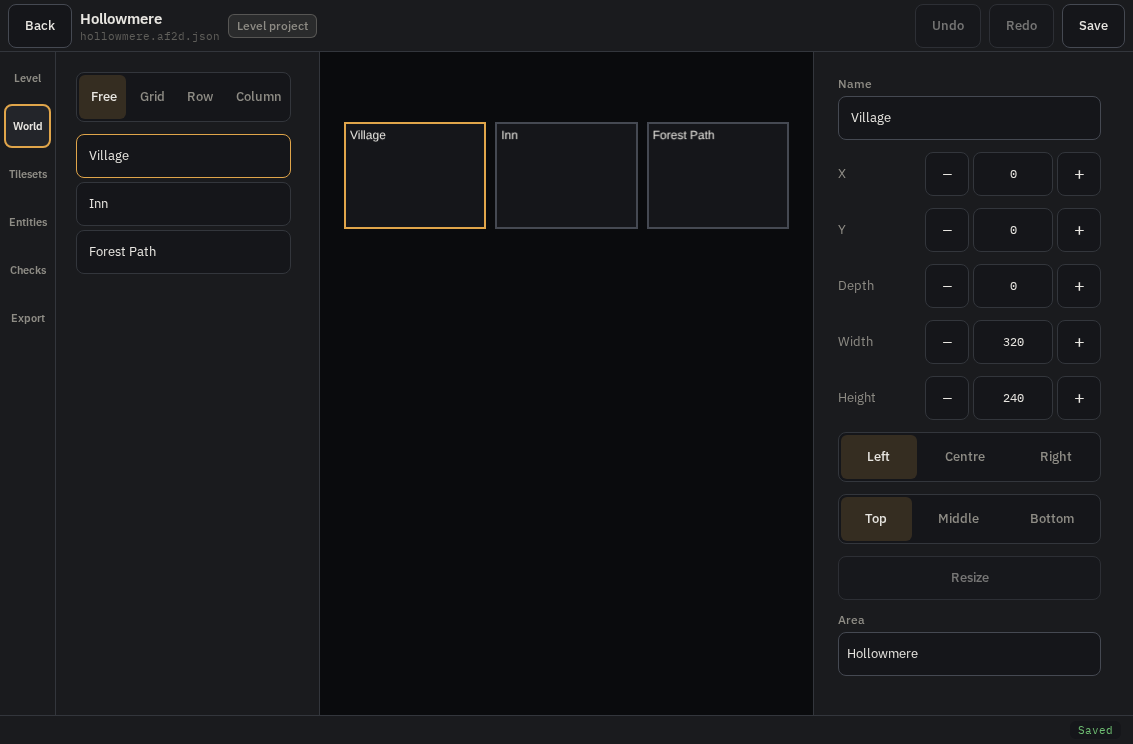
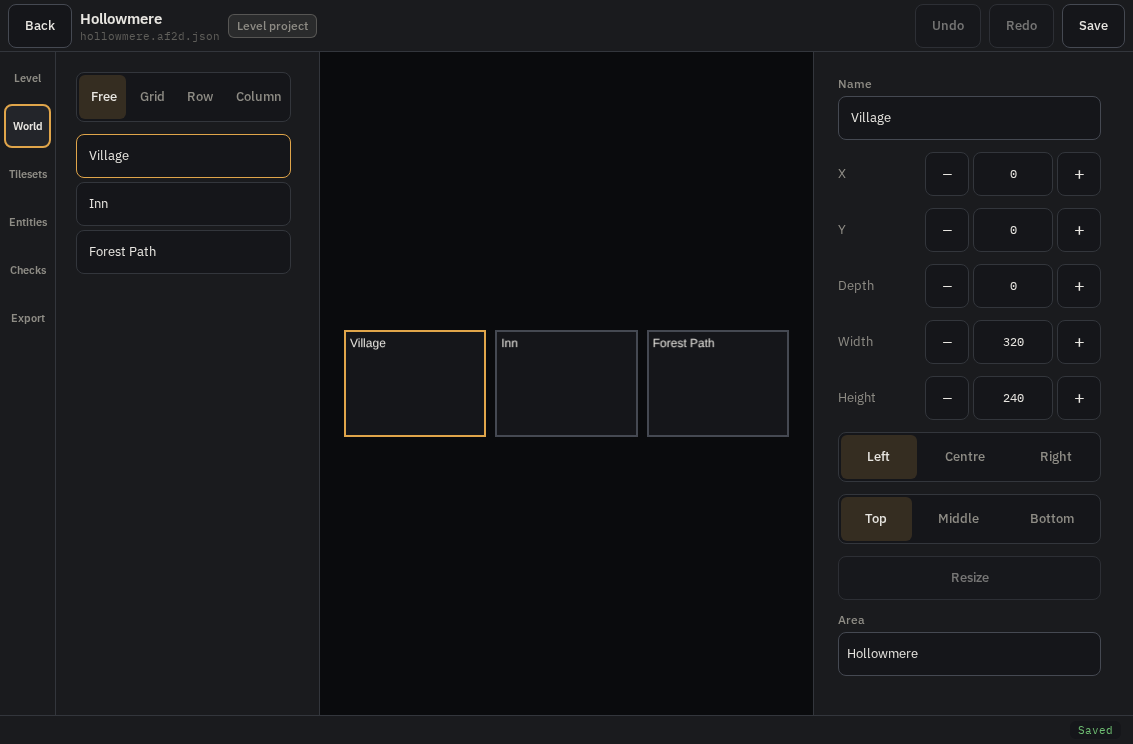
fix(editor-2d): ED2D.6b the map fills the canvas in wide layouts; images open at the top beside the mockup
Claude-Session: https://claude.ai/code/session_01QYLU1hYWzEP1kq4dCQTvo3

diff --git a/packages/editor-2d/src/app/world/world-view.layout.test.ts b/packages/editor-2d/src/app/world/world-view.layout.test.ts
@@ -126,9 +126,16 @@ describe.each(SIZES)('World view at $name ($width x $height)', (size) => {
     const drawers =
       size.mode === 'wide' ? [] : ['Levels', 'Inspector'].map((name) => buttonNamed(view(), name))
     expect(checkLayout(conditions, [...tabs, ...drawers])).toEqual([])
-    const map = byTestId('world-map').getBoundingClientRect()
+    // The map fills the canvas below any drawer buttons, and the levels sit in the middle of it: the camera is fitted
+    // to the box the map really has (review of #310: in wide the map took only its content's height).
+    const mapElement = byTestId('world-map')
+    const map = mapElement.getBoundingClientRect()
+    const canvasRegion = region('canvas').getBoundingClientRect()
     expect(map.width).toBeGreaterThan(100)
-    expect(map.height).toBeGreaterThan(80)
+    expect(map.bottom).toBeGreaterThanOrEqual(canvasRegion.bottom - 1)
+    const [top, bottom] = (mapElement.dataset.levelsBox ?? '').split(',').map(Number)
+    expect(top).toBeGreaterThan(0)
+    expect(Math.abs((top ?? 0) - (map.height - (bottom ?? 0)))).toBeLessThanOrEqual(1.5)
 
     await openDrawer(size, 'Levels', 'panel')
     const panel = region('panel')
@@ -143,6 +150,9 @@ describe.each(SIZES)('World view at $name ($width x $height)', (size) => {
     await closeDrawer(size, 'Levels', 'panel')
 
     await openDrawer(size, 'Inspector', 'inspector')
+    // The inspector opens at its top (Name first); the checks below scroll it to reach each control.
+    const inspectorScroll = region('inspector').querySelector<HTMLElement>('[data-scroll-region]')
+    expect(inspectorScroll?.scrollTop ?? 0).toBe(0)
     const inspector = byTestId('world-inspector')
     const name = inspector.querySelector<HTMLElement>('input[type="text"]')
     if (name === null) throw new Error('no name field')
@@ -153,6 +163,9 @@ describe.each(SIZES)('World view at $name ($width x $height)', (size) => {
       await expectTarget(radio, size)
     await expectTarget(buttonNamed(inspector, 'Resize'), size)
     noPageScroll()
+    // The image shows the inspector as it opens, at its top, not where the checks above left it.
+    inspectorScroll?.scrollTo(0, 0)
+    await settleLayout()
     await page.screenshot({ path: `.vitest/shots/world-view-${size.name}.png` })
   })
 })

diff --git a/packages/editor-2d/src/app/world/WorldView.svelte b/packages/editor-2d/src/app/world/WorldView.svelte
@@ -58,6 +58,12 @@ const rects = $derived(
 )
 const fitted = $derived(fitWorld(rects, box, MARGIN))
 const camera = $derived(held ?? fitted)
+/** Where the levels' top and bottom edges fall on the map, in CSS pixels: the layout checks read it to see them centred. */
+const levelsBox = $derived(
+  rects.length === 0
+    ? undefined
+    : `${camera.y + Math.min(...rects.map((rect) => rect.y)) * camera.scale},${camera.y + Math.max(...rects.map((rect) => rect.y + rect.h)) * camera.scale}`,
+)
 const levels = $derived(
   project === undefined || world === undefined
     ? []
@@ -178,6 +184,7 @@ function layout(next: string): void {
         role="application"
         aria-label="World map"
         data-testid="world-map"
+        data-levels-box={levelsBox}
         bind:this={map}
         onpointerdown={down}
         onpointermove={(event) => drag?.move(pointOf(event))}
@@ -232,9 +239,10 @@ function layout(next: string): void {
     border-color: var(--color-accent-default);
   }
   /* Below wide the drawer buttons sit over the map; the map takes the rest of the canvas. */
+  /* A column, so the map takes all the height the drawer buttons leave, with or without them (wide has none). */
   .stage {
-    display: grid;
-    grid-template-rows: auto minmax(0, 1fr);
+    display: flex;
+    flex-direction: column;
     height: 100%;
   }
   .drawers {
@@ -253,6 +261,7 @@ function layout(next: string): void {
     font: var(--text-body-13-medium);
   }
   .map {
+    flex: 1 1 0;
     min-height: 0;
     touch-action: none;
   }

diff --git a/docs/evidence/owner-visual/2026-10-31-ed2d-6b/README.md b/docs/evidence/owner-visual/2026-10-31-ed2d-6b/README.md
@@ -1,18 +1,33 @@
 # ED2D.6b review images (2026-10-31)
 
 Screenshots from `packages/editor-2d/src/app/world/world-view.layout.test.ts`, the production CSS at the 2D editor's
-sizes (spec §12), taken from a Chromium run (headless Firefox has no WebGL2, so its map says "Preview unavailable";
-the three-browser run passes 24 of 24 either way). The project is the Hollowmere sample, an RPG map set of three
-levels; the test chooses Village, so the inspector shows it. This is a new screen; no golden or committed screenshot
-changed.
+sizes (spec §12), from a Chromium run (headless Firefox has no WebGL2, so its map says "Preview unavailable"; the
+three-browser run passes 24 of 24 either way). The project is the Hollowmere sample, three levels; the test chooses
+Village. This is a new screen; no golden or committed screenshot changed. Each image is taken with the inspector at
+its top, as it opens (the checks scroll it to reach every control first, then scroll it back).
 
 | Image | What it shows |
 | --- | --- |
-| `world-view-ipad-pro-11-landscape.png` | The reference size: the panel with the layout switch (Free, Grid, Row, Column) and the levels; the map with Village outlined in the accent; the inspector with Name, X, Y, Depth, Width, Height, the sides kept on a resize, Resize (disabled until the size changes) and the level's field (Area). |
+| `mockup-world.png` | The design: the `world` frame of the "Automata Editors" Figma file (Figma key `8H4vY5xZj7xIedrvDdwg2d`), rendered at 1:1 from `docs/design/editor-2d` with `node build.mjs screen world` and a Playwright screenshot. It is the only mockup frame for this view (iPad 11" landscape). |
+| `world-view-ipad-pro-11-landscape.png` | The build at the mockup's size: the layout switch and the level list in the panel, the levels centred on the map with Village outlined, and the inspector. |
 | `world-view-ipad-pro-11-portrait.png` | Medium: Levels and Inspector open the drawers over the map; the inspector is open. |
 | `world-view-ipad-mini-landscape.png` | Wide but short. |
-| `world-view-phone-portrait.png` | Compact: the inspector as a bottom sheet over the map. |
+| `world-view-phone-portrait.png` | Compact: the inspector as a bottom sheet, open at Name. |
 | `world-view-phone-landscape.png` | Compact and short. |
 
-Not shown: a drag in progress and the resize confirmation (the DOM tests cover both). Real-device testing stays the
-Owner's (the finger and Pencil drag belongs to ED2D.8's iPad pass).
+## The build against the mockup
+
+| In the mockup | In this build | Why |
+| --- | --- | --- |
+| Layout switch Free, Grid, Row, Column | The same | |
+| Levels as rectangles with names; the selected one outlined in the accent | The same, without the tile thumbnails inside | Thumbnails are a follow-up (`level-thumbnails.ts` exists). |
+| Links between levels on the map, the Links section in the inspector, the link tool | Not built | ED2D.6c (the reference picker and links). |
+| Worlds list with + (add a world), a grid size field | One world is shown; no add, no grid field | Adding worlds and editing the grid size were out of this slice (plan "Out"). A grid world uses the computed grid. |
+| Maps list with size in cells and depth (z) | Level names only | A follow-up; depth is in the inspector. |
+| Map toolbar (select, pan, add, link), zoom chip, "Pencil moves · finger pans" | Not built; the map is fitted | Plan decision 1: pan and zoom wait for ED2D.8; adding levels is a follow-up. |
+| Inspector tabs Map, World, Checks; id shown locked | No tabs; no id field | The World view's inspector edits the selected level only; Checks has its own view. |
+| X, Y in px; Width, Height in cells, applied directly | X, Y, Depth in px; Width, Height in px with the side kept and a Resize button | Plan decision 3: a resize that would drop cells asks first, so it is an explicit action with an anchor. |
+| Duplicate and Delete | Not built | A follow-up (the commands exist). |
+| Top bar: Checks ok and Export | The document bar of every view (Back, Undo, Redo, Save) | The editor's shared top bar; Export is its own rail view (ED2D.7b). |
+
+Real-device testing stays the Owner's (the finger and Pencil drag belongs to ED2D.8's iPad pass).

diff --git a/docs/superpowers/plans/2026-10-31-ed2d-6b-world-view.md b/docs/superpowers/plans/2026-10-31-ed2d-6b-world-view.md
@@ -60,3 +60,4 @@ Each step: write the test, run it and see it fail for the stated reason, make th
 - Steps 5 and 6: `WorldView.dom.test.ts` (7 journeys) failed at every case on the pending view (no `world-view`). With `WorldView.svelte` (panel: the layout `Segmented`, the levels list; canvas: the map as `role=application` "World map" with pointer handlers into `createWorldDrag`, the camera held still during a drag; inspector: `WorldInspector.svelte`), `WorldCanvas.svelte`, `ViewServices.worldCanvas` with `testing/FakeWorldCanvas.svelte`, and `WorldView` registered in `views.ts`, they pass 7 of 7. `world-drag.ts` now takes the Level view's `EditHistory` rather than the kit's `History<Project>`. Two DOM assertions read the page right after synthetic pointer events and needed to wait for Svelte's flush (`findByRole`, `vi.waitFor`); the history assertions stay synchronous. Two existing tests used World as their example of an unbuilt view: `views.dom.test.ts` now uses `ComposeView` (and maps `WorldView`), and `DocumentScreen.dom.test.ts` checks the World view is shown. `WorldCanvas` now skips its `ResizeObserver` where there is none (jsdom), so a screen test that mounts the real map does not throw. editor-2d `unit` and `dom` pass 2502 of 2502; `svelte-check` clean (the map needed a role).
 - Step 7: before writing it I added the Levels and Inspector drawer buttons over the map below wide (as the Entities view has): without them the panel and inspector could not be reached on a tablet in portrait or a phone. The first run then failed at the 4 wide sizes in all 3 browsers: "Vertical is cut at the side of its scroll region" and every level row too, because the four-option layout switch was wider than the 264 px panel and stretched its column. Fixed with plain, shorter labels (Free, Grid, Row, Column; decision 5) and a `minmax(0, 1fr)` column. Looking at the images, the paired X/Y and Width/Height steppers wrapped badly in the 320 px inspector, so each is now on its own row. 24 of 24 pass in Chromium, WebKit and Firefox.
 - Step 8: 5 review images from a Chromium run (headless Firefox has no WebGL2, so its map says "Preview unavailable") and a README in `docs/evidence/owner-visual/2026-10-31-ed2d-6b/`.
+- Review of #310 (coordinator): (1) in wide layouts the map took only its content's height (the stage was a two-row grid whose `auto` row held the map when there are no drawer buttons), so the camera was fitted to a ~250 px box and the levels sat high. The layout check now asserts the map reaches the canvas region's bottom and the levels' box (`data-levels-box` on the map) is vertically centred in it; it failed at every size in Chromium (e.g. map bottom 299 against the region's 714; no levels box), and passes with the stage as a flex column and the map `flex: 1 1 0`. (2) The compact images showed the inspector sheet mid-scroll because the check scrolls it to reach each control; the check now asserts the sheet opens at its top and scrolls it back before the screenshot. (3) The `world` mockup frame is rendered beside the images with a README table of what differs and why. 24 of 24 in Chromium, WebKit and Firefox.
